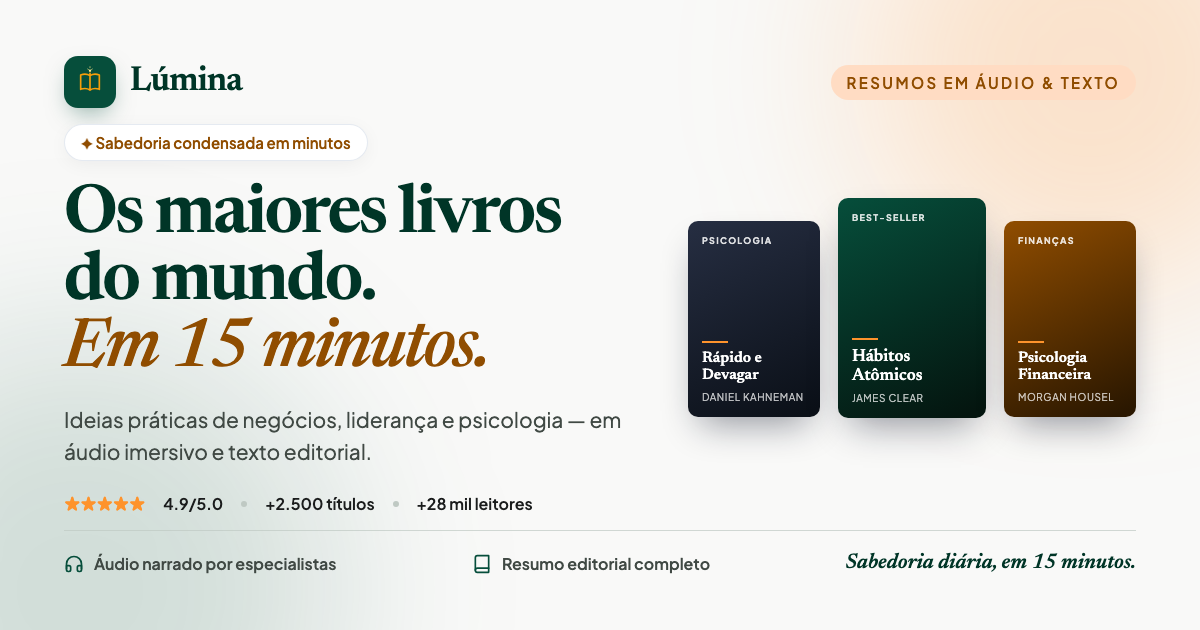
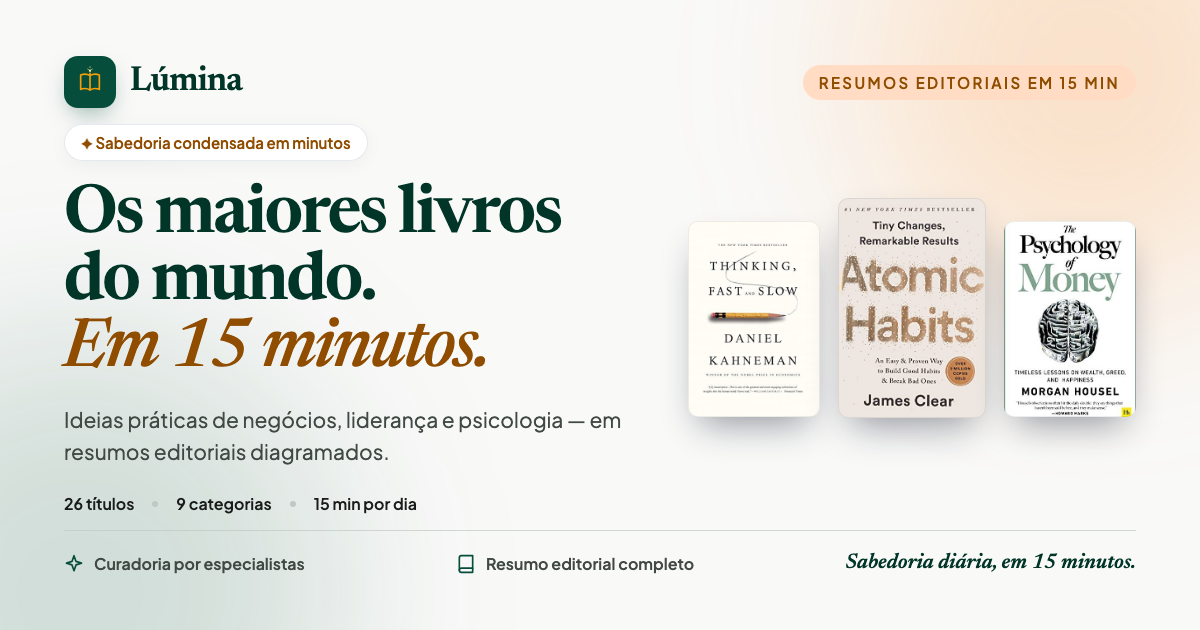
feat(og): capas reais e copy sem áudio no preview
- og.html usa as capas reais (Rápido e Devagar, Hábitos Atômicos, Psicologia Financeira)
- preview com números reais: 26 títulos, 9 categorias, 15 min/dia
- descrição (meta/OG/manifest) e CTAs sem prometer áudio
- testes de metadata garantem que a copy não menciona áudio

diff --git a/scripts/og.html b/scripts/og.html
@@ -185,54 +185,17 @@
         width: 132px;
         height: 196px;
         border-radius: 10px;
-        padding: 14px;
-        display: flex;
-        flex-direction: column;
-        justify-content: space-between;
-        color: #ffffff;
+        object-fit: cover;
+        background: #e2e2e2;
         box-shadow: 0 18px 36px -12px rgba(15, 23, 42, 0.45);
-        position: relative;
-        overflow: hidden;
+        outline: 1px solid rgba(15, 23, 42, 0.08);
+        outline-offset: -1px;
       }
 
       .cover.mid {
         width: 148px;
         height: 220px;
         margin-bottom: 22px;
-      }
-
-      .cover .eyebrow {
-        font-size: 9px;
-        font-weight: 700;
-        letter-spacing: 0.14em;
-        text-transform: uppercase;
-        opacity: 0.85;
-      }
-
-      .cover .rule {
-        width: 26px;
-        height: 2px;
-        background: #fe932c;
-        margin-bottom: 8px;
-      }
-
-      .cover .title {
-        font-family: 'Newsreader', Georgia, serif;
-        font-size: 15px;
-        line-height: 1.12;
-        font-weight: 600;
-      }
-
-      .cover.mid .title {
-        font-size: 17px;
-      }
-
-      .cover .author {
-        margin-top: 6px;
-        font-size: 10px;
-        letter-spacing: 0.06em;
-        text-transform: uppercase;
-        opacity: 0.72;
       }
 
       .bottom {
@@ -295,7 +258,7 @@
           </div>
           <span class="brand-name">Lúmina</span>
         </div>
-        <span class="top-tag">Resumos em áudio &amp; texto</span>
+        <span class="top-tag">Resumos editoriais em 15 min</span>
       </div>
 
       <div class="main">
@@ -307,53 +270,34 @@
             >
           </h1>
           <p class="lead">
-            Ideias práticas de negócios, liderança e psicologia — em áudio
-            imersivo e texto editorial.
+            Ideias práticas de negócios, liderança e psicologia — em resumos
+            editoriais diagramados.
           </p>
           <div class="stats">
-            <span class="stars">★★★★★</span>
-            <span>4.9/5.0</span>
+            <span>26 títulos</span>
             <span class="dot"></span>
-            <span>+2.500 títulos</span>
+            <span>9 categorias</span>
             <span class="dot"></span>
-            <span>+28 mil leitores</span>
+            <span>15 min por dia</span>
           </div>
         </div>
 
         <div class="shelf">
-          <div
+          <img
             class="cover"
-            style="background: linear-gradient(155deg, #262e42 0%, #0b1018 96%)"
-          >
-            <span class="eyebrow">Psicologia</span>
-            <div>
-              <div class="rule"></div>
-              <div class="title">Rápido e Devagar</div>
-              <div class="author">Daniel Kahneman</div>
-            </div>
-          </div>
-          <div
+            src="../public/covers/rapido-e-devagar.jpg"
+            alt="Capa de Rápido e Devagar, de Daniel Kahneman"
+          />
+          <img
             class="cover mid"
-            style="background: linear-gradient(155deg, #064e3b 0%, #04150f 96%)"
-          >
-            <span class="eyebrow">Best-seller</span>
-            <div>
-              <div class="rule"></div>
-              <div class="title">Hábitos Atômicos</div>
-              <div class="author">James Clear</div>
-            </div>
-          </div>
-          <div
+            src="../public/covers/habitos-atomicos.jpg"
+            alt="Capa de Hábitos Atômicos, de James Clear"
+          />
+          <img
             class="cover"
-            style="background: linear-gradient(155deg, #904d00 0%, #2a1700 96%)"
-          >
-            <span class="eyebrow">Finanças</span>
-            <div>
-              <div class="rule"></div>
-              <div class="title">Psicologia Financeira</div>
-              <div class="author">Morgan Housel</div>
-            </div>
-          </div>
+            src="../public/covers/psicologia-financeira.jpg"
+            alt="Capa de Psicologia Financeira, de Morgan Housel"
+          />
         </div>
       </div>
 
@@ -367,12 +311,11 @@
             stroke-linecap="round"
             stroke-linejoin="round"
           >
-            <path d="M3 18v-6a9 9 0 0 1 18 0v6" />
             <path
-              d="M21 19a2 2 0 0 1-2 2h-1a2 2 0 0 1-2-2v-3a2 2 0 0 1 2-2h3zM3 19a2 2 0 0 0 2 2h1a2 2 0 0 0 2-2v-3a2 2 0 0 0-2-2H3z"
+              d="M12 2l2.4 6.9L21 11l-6.6 2.1L12 20l-2.4-6.9L3 11l6.6-2.1z"
             />
           </svg>
-          Áudio narrado por especialistas
+          Curadoria por especialistas
         </span>
         <span class="item">
           <svg

diff --git a/src/lib/site.ts b/src/lib/site.ts
@@ -9,7 +9,7 @@ export const SITE_URL = String(rawUrl).replace(/\/$/, '')
 export const SITE_NAME = 'Lúmina'
 export const SITE_TITLE = 'Lúmina — Resuma os maiores livros em 15 minutos'
 export const SITE_DESCRIPTION =
-  'Resumos em áudio e texto dos maiores livros de negócios, liderança, psicologia e desenvolvimento pessoal. Sabedoria condensada em 15 minutos por dia.'
+  'Resumos editoriais dos maiores livros de negócios, liderança, psicologia e desenvolvimento pessoal. Sabedoria condensada em 15 minutos por dia.'
 export const OG_IMAGE = `${SITE_URL}/og.png`
 export const OG_IMAGE_ALT =
-  'Lúmina — os maiores livros do mundo em 15 minutos, com capas de Hábitos Atômicos, Rápido e Devagar e Psicologia Financeira.'
+  'Lúmina — os maiores livros do mundo em 15 minutos, com as capas de Hábitos Atômicos, Rápido e Devagar e Psicologia Financeira.'

diff --git a/src/lib/site.test.ts b/src/lib/site.test.ts
@@ -1,0 +1,27 @@
+import { describe, expect, it } from 'vitest'
+
+import {
+  OG_IMAGE,
+  OG_IMAGE_ALT,
+  SITE_DESCRIPTION,
+  SITE_NAME,
+  SITE_TITLE,
+} from '#/lib/site'
+
+describe('site metadata', () => {
+  it('describes the product without promising audio', () => {
+    for (const value of [SITE_DESCRIPTION, OG_IMAGE_ALT]) {
+      expect(value.toLowerCase()).not.toContain('áudio')
+      expect(value.toLowerCase()).not.toContain('audio')
+    }
+  })
+
+  it('points the og:image to the generated asset', () => {
+    expect(OG_IMAGE.endsWith('/og.png')).toBe(true)
+  })
+
+  it('has a name and title', () => {
+    expect(SITE_NAME).toBe('Lúmina')
+    expect(SITE_TITLE).toContain('Lúmina')
+  })
+})

diff --git a/src/routes/signup.tsx b/src/routes/signup.tsx
@@ -89,8 +89,9 @@ function SignUpPage() {
             Comece seu ritual diário de leitura
           </h1>
           <p className="mx-auto mt-2 max-w-xs text-[15px] text-on-surface-variant">
-            Junte-se a mais de 28 mil mentes curiosas e acesse sínteses
-            essenciais em áudio e texto.
+            {FEATURES.audioPlayer
+              ? 'Junte-se a milhares de mentes curiosas e acesse sínteses essenciais em áudio e texto.'
+              : 'Junte-se a milhares de mentes curiosas e acesse sínteses essenciais em texto editorial.'}
           </p>
         </header>
 

diff --git a/src/routes/plans.tsx b/src/routes/plans.tsx
@@ -127,8 +127,10 @@ function PlansPage() {
             Acelere seu conhecimento em minutos por dia
           </h2>
           <p className="max-w-xs text-[15px] leading-relaxed text-on-surface-variant">
-            Acesso irrestrito aos {data.totalBooks} resumos essenciais em áudio
-            imersivo e texto diagramado.
+            Acesso irrestrito aos {data.totalBooks} resumos essenciais em{' '}
+            {FEATURES.audioPlayer
+              ? 'áudio imersivo e texto diagramado.'
+              : 'texto editorial diagramado.'}
           </p>
         </div>
 

diff --git a/src/routes/onboarding/interests.tsx b/src/routes/onboarding/interests.tsx
@@ -104,7 +104,7 @@ function InterestsPage() {
             <strong className="font-semibold text-primary">
               3 ou mais tópicos
             </strong>{' '}
-            para refinarmos seus resumos diários em áudio e texto de 15 minutos.
+            para refinarmos seus resumos diários de 15 minutos.
           </p>
         </div>
 

diff --git a/README.md b/README.md
@@ -2,7 +2,8 @@
 
 [![CI](https://github.com/puppe1990/lumina/actions/workflows/ci.yml/badge.svg)](https://github.com/puppe1990/lumina/actions/workflows/ci.yml)
 
-App de assinatura de resumos de livros em áudio e texto. Reconstrução do design "Editorial
+App de assinatura de resumos editoriais de livros (leitura em 15 minutos; player de áudio atrás de
+feature flag). Reconstrução do design "Editorial
 Intellect" (arquivos Stitch) como uma aplicação full-stack com **TanStack Start**, **SQLite** e
 **TDD com Faker**.
 
